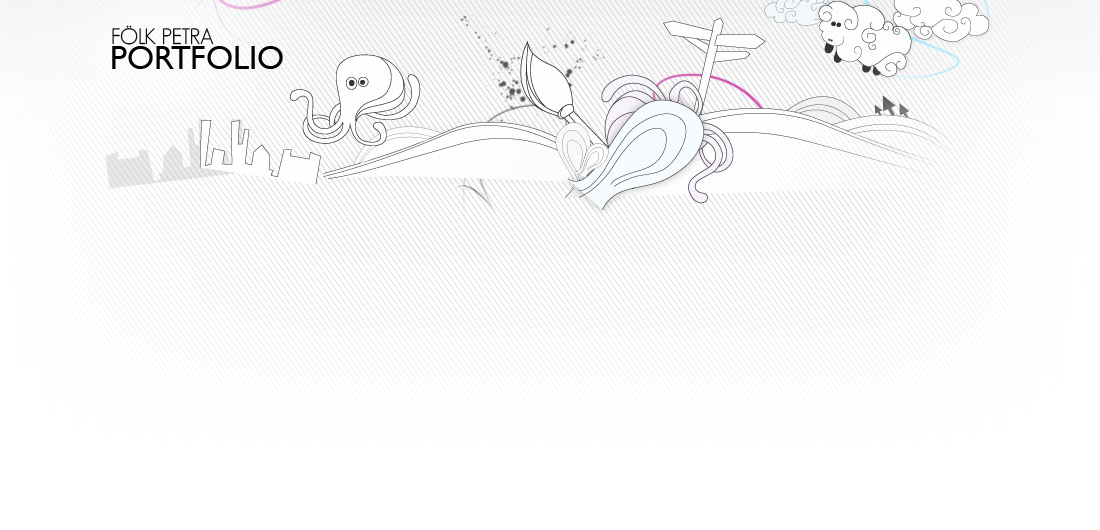
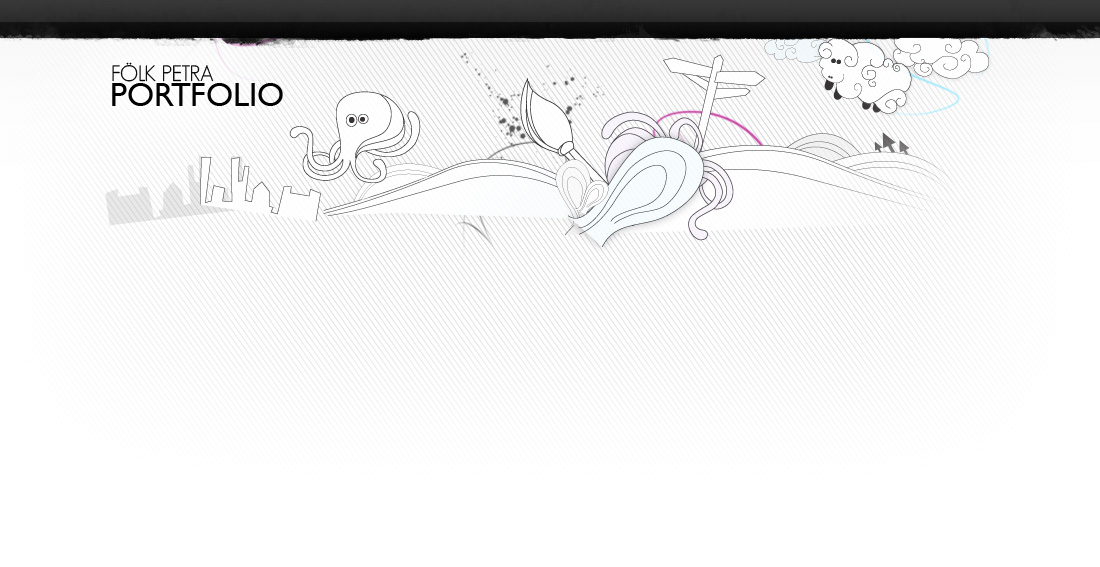
Top black bar base.

Changed region(s): [[0.0, 0.0, 1.0, 0.5132], [0.7109, 0.3019, 0.7418, 0.3321]]

diff --git a/public/stylesheets/screen.css b/public/stylesheets/screen.css
@@ -31,69 +31,69 @@ header, nav, section, aside { display: block; }
 .wrapper { width: 100%; height: 100%; background: url(/images/wrapper-bg.jpg) 50% 0 no-repeat; }
 
 /* line 18, ../../sass/screen.scss */
-.canvas { width: 960px; height: 963px; background: url(/images/canvas-bg.png) no-repeat; margin: 0 auto; }
+.canvas { width: 960px; height: 963px; background: url(/images/canvas-bg.png) 0 40px no-repeat; margin: 0 auto; }
 
 /* line 24, ../../sass/screen.scss */
-header { width: 960px; height: 150px; }
+header { width: 960px; height: 190px; }
 /* line 28, ../../sass/screen.scss */
-header a { display: block; width: 220px; height: 90px; }
+header a { position: relative; top: 40px; display: block; width: 220px; height: 90px; }
 
-/* line 37, ../../sass/screen.scss */
+/* line 39, ../../sass/screen.scss */
 nav { width: 960px; height: 70px; background: url(/images/nav-lenia.png) 0 1px no-repeat; }
-/* line 42, ../../sass/screen.scss */
+/* line 44, ../../sass/screen.scss */
 nav ul { list-style-type: none; display: block; margin: 0; padding: 0; width: 960px; height: 70px; padding-left: 27px; }
-/* line 51, ../../sass/screen.scss */
+/* line 53, ../../sass/screen.scss */
 nav ul li { display: block; float: left; height: 70px; background: url(/images/nav-bg.png) no-repeat; }
-/* line 57, ../../sass/screen.scss */
+/* line 59, ../../sass/screen.scss */
 nav ul li a { display: block; width: 100%; height: 70px; }
-/* line 62, ../../sass/screen.scss */
+/* line 64, ../../sass/screen.scss */
 nav ul li.design { width: 103px; background-position: -27px 0; }
-/* line 66, ../../sass/screen.scss */
+/* line 68, ../../sass/screen.scss */
 nav ul li.design:hover { background-position: -27px -70px; }
-/* line 71, ../../sass/screen.scss */
+/* line 73, ../../sass/screen.scss */
 nav ul li.exp { width: 160px; background-position: -130px 0; }
-/* line 75, ../../sass/screen.scss */
+/* line 77, ../../sass/screen.scss */
 nav ul li.exp:hover { background-position: -130px -140px; }
-/* line 80, ../../sass/screen.scss */
+/* line 82, ../../sass/screen.scss */
 nav ul li.photos { width: 92px; background-position: -290px 0; }
-/* line 84, ../../sass/screen.scss */
+/* line 86, ../../sass/screen.scss */
 nav ul li.photos:hover { background-position: -290px -210px; }
-/* line 89, ../../sass/screen.scss */
+/* line 91, ../../sass/screen.scss */
 nav ul li.graphics { width: 104px; background-position: -382px 0; }
-/* line 93, ../../sass/screen.scss */
+/* line 95, ../../sass/screen.scss */
 nav ul li.graphics:hover { background-position: -382px -280px; }
-/* line 98, ../../sass/screen.scss */
+/* line 100, ../../sass/screen.scss */
 nav ul li.about { width: 91px; background-position: -486px 0; }
-/* line 102, ../../sass/screen.scss */
+/* line 104, ../../sass/screen.scss */
 nav ul li.about:hover { background-position: -486px -350px; }
 
-/* line 110, ../../sass/screen.scss */
+/* line 112, ../../sass/screen.scss */
 .outer-scroll { padding: 20px 0 0 0; width: 960px; height: 488px; }
-/* line 115, ../../sass/screen.scss */
+/* line 117, ../../sass/screen.scss */
 .outer-scroll .scroll { float: left; position: relative; overflow: hidden; width: 618px; height: 468px; }
-/* line 123, ../../sass/screen.scss */
+/* line 125, ../../sass/screen.scss */
 .outer-scroll .scroll .items { width: 20000em; position: absolute; }
-/* line 127, ../../sass/screen.scss */
+/* line 129, ../../sass/screen.scss */
 .outer-scroll .scroll .items div.item { float: left; }
-/* line 132, ../../sass/screen.scss */
+/* line 134, ../../sass/screen.scss */
 .outer-scroll a.nav { display: block; width: 31px; height: 31px; }
-/* line 137, ../../sass/screen.scss */
+/* line 139, ../../sass/screen.scss */
 .outer-scroll a.nav img { margin-top: 100px; }
-/* line 140, ../../sass/screen.scss */
+/* line 142, ../../sass/screen.scss */
 .outer-scroll a.nav.next { margin-right: 140px; margin-left: 20px; float: right; }
-/* line 145, ../../sass/screen.scss */
+/* line 147, ../../sass/screen.scss */
 .outer-scroll a.nav.previous { margin-left: 100px; margin-right: 20px; float: left; }
 
-/* line 153, ../../sass/screen.scss */
+/* line 155, ../../sass/screen.scss */
 .slide { width: 310px; padding: 10px 20px; }
-/* line 157, ../../sass/screen.scss */
+/* line 159, ../../sass/screen.scss */
 .slide h2 { font-family: "Georgia", "serif"; font-size: 32px; margin-bottom: 18px; color: #000; }
-/* line 163, ../../sass/screen.scss */
+/* line 165, ../../sass/screen.scss */
 .slide p { font-family: "Georgia", "serif"; font-size: 14px; margin-bottom: 9px; color: #929292; }
-/* line 169, ../../sass/screen.scss */
+/* line 171, ../../sass/screen.scss */
 .slide p a { color: #aa0384; font-weight: bold; font-family: "Georgia", "serif"; font-size: 15px; text-decoration: none; }
-/* line 176, ../../sass/screen.scss */
+/* line 178, ../../sass/screen.scss */
 .slide p a:hover { text-decoration: underline; }
 
-/* line 184, ../../sass/screen.scss */
+/* line 186, ../../sass/screen.scss */
 .hidden { display: none; }

diff --git a/sass/screen.scss b/sass/screen.scss
@@ -18,14 +18,16 @@ header, nav, section, aside {
 .canvas {
   width: 960px; 
   height: 963px; 
-  background: url(/images/canvas-bg.png) no-repeat;
+  background: url(/images/canvas-bg.png) 0 40px no-repeat;
   margin: 0 auto; }
   
 header {
   width: 960px; 
-  height: 150px; 
+  height: 190px; 
 
-  a { 
+  a {
+    position: relative;
+    top: 40px;
     display: block; 
     width: 220px; 
     height: 90px; 
